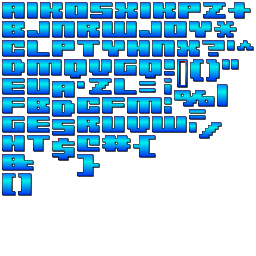
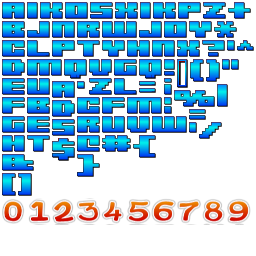
...bug fixed
Added numeric characters to bitmap font

- Added digits 0-9 to the font PNG file
- Updated XML file with coordinates for new numeric glyphs
- Adjusted character metrics to ensure proper rendering

This change enables the display of numbers in the game UI,
fixing issues with score, lives, and other numeric indicators...lol

Changed region(s): [[0.0, 0.7812, 1.0, 0.9062]]

diff --git a/src/index.css b/src/index.css
@@ -1,1 +1,1 @@
-body{margin:0;padding:0;display:flex;justify-content:center;align-items:center;height:100vh;background-color:#000;color:#fff}#game{width:640px;height:400px;border:5px solid #ccc}#musicToggle{position:absolute;top:10px;right:10px;z-index:10;background:#fff;padding:5px;border:1px solid #ccc}#musicToggle input{margin-right:5px}.slider{color:#000}/*# sourceMappingURL=index.css.map */
+body{margin:0;padding:0;display:flex;justify-content:center;align-items:center;height:100vh;background-color:#000;color:#fff}#game{width:640px;height:400px;border:5px solid #ccc}#musicToggle{position:absolute;top:10px;right:10px;z-index:10;background:#fff;padding:5px;border:1px solid #ccc}#musicToggle input{margin-right:5px}.slider{color:#000}.start-screen,.game-over-screen{display:flex;flex-direction:column;align-items:center;justify-content:center;height:100vh;background-color:#000;color:#fff}.start-screen h1,.game-over-screen h1{font-size:2.5em;margin-bottom:20px}.game-over-screen h2{font-size:1.8em;margin-bottom:20px;color:gold}.start-screen img,.game-over-screen img{max-width:80%;margin-bottom:30px}.button-container{display:flex;gap:20px}.button-container button{padding:10px 20px;font-size:1.2em;cursor:pointer;background-color:#4caf50;color:#fff;border:none;border-radius:5px;transition:background-color .3s}.button-container button:hover{background-color:#45a049}/*# sourceMappingURL=index.css.map */

diff --git a/src/managers/GameStateManager.js b/src/managers/GameStateManager.js
@@ -19,7 +19,7 @@ export class GameStateManager {
 
   create() {
     this.livesText = this.scene.add.bitmapText(10, 10, 'shmupfont', `Lives: ${this.lives}`, 12);
-    this.scoreText = this.scene.add.bitmapText(10, 30, 'shmupfont', `Score: ${this.score}`, 12);
+    this.scoreText = this.scene.add.bitmapText(10, 30, 'shmupfont', `Score: 1234567890 ${this.score}`, 36);
     this.shieldText = this.scene.add.bitmapText(10, 50, 'shmupfont', `Shield: ${this.hasShield ? 'ON' : 'OFF'}`, 12);
     this.speedText = this.scene.add.bitmapText(10, 70, 'shmupfont', `Speed: ${this.speedLevel}`, 12);
   }
